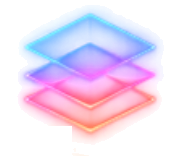
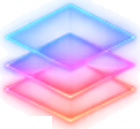
One Badge component, a brighter Writing hero and a clearer portfolio path
Every label, tag, chat chip and filter pill is now the shared Badge
(flat hairline, white pill when pressed, a white shine across the border
on hover). The work page drops the Disney card, shows the remaining
portfolio pieces with a PreAI badge and ends with a prominent portfolio
call-to-action. The Writing hero uses the retro-computer artwork, lifted
and no longer faded over the keyboard. The nav logo mark is trimmed and
sized to the text beside it. DESIGN.md and CLAUDE.md describe the Badge.

diff --git a/src/styles/neon.css b/src/styles/neon.css
@@ -5,14 +5,14 @@
    the border flashes white: a second pseudo-element masked down to the 1px ring. The live voice button keeps its
    own ::after for the listening ring, so it is left out. The lists use :where() so they add no specificity and each
    button's own rules (its shine strength, the cards' glint layer) win. */
-:where(.btn:not(.btn-text), .home-verso-button, #chat-dock .input-row button, #chat-dock .dock-close, .project-card, .career-panel, .work-card, .about-explore a) {
+:where(.btn:not(.btn-text), .home-verso-button, #chat-dock .input-row button, #chat-dock .dock-close, .project-card, .career-panel, .work-card, .about-explore a, .work-footer) {
   --neon-shine: .22;
   --neon-edge: conic-gradient(from var(--edge-spin), rgb(46 230 255 / .6), rgb(166 77 255 / .6), rgb(255 47 208 / .6), rgb(255 210 61 / .6), rgb(46 230 255 / .6));
   position: relative;
   isolation: isolate;
   animation: edge-spin 12s linear infinite;
 }
-:where(.btn:not(.btn-text), .home-verso-button, #chat-dock .input-row button, #chat-dock .dock-close, .project-card, .career-panel, .work-card, .about-explore a)::before {
+:where(.btn:not(.btn-text), .home-verso-button, #chat-dock .input-row button, #chat-dock .dock-close, .project-card, .career-panel, .work-card, .about-explore a, .work-footer)::before {
   content: "";
   position: absolute;
   inset: 0;
@@ -21,11 +21,11 @@
   background: linear-gradient(105deg, transparent 40%, rgb(255 255 255 / var(--neon-shine)) 50%, rgb(255 255 255 / calc(var(--neon-shine) / 4)) 55%, transparent 62%) 130% 0 / 250% 100% no-repeat;
   pointer-events: none;
 }
-:where(.btn:not(.btn-text), .home-verso-button, #chat-dock .input-row button, #chat-dock .dock-close, .project-card, .career-panel, .work-card, .about-explore a):hover::before {
+:where(.btn:not(.btn-text), .home-verso-button, #chat-dock .input-row button, #chat-dock .dock-close, .project-card, .career-panel, .work-card, .about-explore a, .work-footer):hover::before {
   background-position: -30% 0;
   transition: background-position .6s cubic-bezier(.3, 0, .2, 1);
 }
-:where(.btn:not(.btn-text), .home-verso-button, #chat-dock .input-row button, #chat-dock .dock-close, .project-card, .career-panel, .work-card, .about-explore a):not(#dock-voice[data-state="live"])::after {
+:where(.btn:not(.btn-text), .home-verso-button, #chat-dock .input-row button, #chat-dock .dock-close, .project-card, .career-panel, .work-card, .about-explore a, .work-footer):not(#dock-voice[data-state="live"])::after {
   content: "";
   position: absolute;
   inset: -1px;
@@ -37,14 +37,14 @@
   opacity: 0;
   pointer-events: none;
 }
-:where(.btn:not(.btn-text), .home-verso-button, #chat-dock .input-row button, #chat-dock .dock-close, .project-card, .career-panel, .work-card, .about-explore a):not(#dock-voice[data-state="live"]):hover::after {
+:where(.btn:not(.btn-text), .home-verso-button, #chat-dock .input-row button, #chat-dock .dock-close, .project-card, .career-panel, .work-card, .about-explore a, .work-footer):not(#dock-voice[data-state="live"]):hover::after {
   animation: neon-edge-flash .75s ease-out both;
 }
 @keyframes neon-edge-flash { 0%, 10% { opacity: 0; background-position: 100% 0; } 24%, 38% { opacity: 1; } 100% { opacity: 0; background-position: 0 0; } }
 /* The glint is pitched to the face it crosses: soft on the dark buttons, stronger on the lit pink one. The cards'
    faces are covered by their preview and copy, so their glint passes over the content instead of behind it. */
-.btn-primary, .btn[aria-pressed='true'] { --neon-shine: .6; }
-.project-card, .career-panel, .work-card, .about-explore a { --neon-shine: .16; }
+.btn-primary { --neon-shine: .6; }
+.project-card, .career-panel, .work-card, .about-explore a, .work-footer { --neon-shine: .16; }
 .project-card::before, .work-card::before { z-index: 1; }
 /* The work grid is an .enter-list, whose rise-in animation would replace the edge's spin, so the cards run both. */
 .enter-list > .work-card {

diff --git a/src/styles/badge.css b/src/styles/badge.css
@@ -1,0 +1,57 @@
+/* Badges. Rendered by components/Badge.astro; this is the only place a pill's look is defined. A dark pill with a
+   thin flat hairline. Controls brighten the hairline on hover, and a pressed toggle (or `strong`) turns into a solid
+   white pill. No gradient, no spinning edge and no halo: these are labels, not actions. */
+.pill {
+  display: inline-flex;
+  align-items: center;
+  gap: 6px;
+  padding: 8px 16px;
+  border: 1px solid var(--ui-pill-line);
+  border-radius: 99px;
+  background: var(--ui-bg);
+  color: var(--ui-ink);
+  font-family: var(--sans);
+  font-size: 12px;
+  font-weight: 500;
+  line-height: 1.4;
+  white-space: nowrap;
+  text-decoration: none;
+  appearance: none;
+  box-shadow: none;
+  transition: background .18s, color .18s, border-color .18s, box-shadow .18s;
+}
+.pill-sm { padding: 3px 10px; font-size: 11px; }
+button.pill, a.pill { cursor: pointer; }
+button.pill:hover, a.pill:hover { border-color: var(--ui-pill-line-hover); }
+.pill[aria-pressed='true'], .pill-strong {
+  border-color: #f4f7fb;
+  background: #f4f7fb;
+  color: #06111a;
+  font-weight: 650;
+  box-shadow: 0 0 10px rgb(255 255 255 / .22);
+}
+/* On hover a white gradient shine crosses the hairline: a ring-shaped overlay (the padding box masked away) whose
+   bright band slides left to right. A solid white pill has nothing to shine on, so it is left out. */
+.pill { position: relative; }
+.pill::after {
+  content: "";
+  position: absolute;
+  inset: -1px;
+  padding: 1px;
+  border-radius: inherit;
+  background: linear-gradient(100deg, transparent 30%, rgb(255 255 255 / .95) 50%, transparent 70%) 100% 0 / 250% 100% no-repeat;
+  mask: linear-gradient(#000 0 0) content-box, linear-gradient(#000 0 0);
+  mask-composite: exclude;
+  opacity: 0;
+  pointer-events: none;
+}
+.pill:hover::after { animation: pill-shine .7s ease-out both; }
+.pill[aria-pressed='true']::after, .pill-strong::after { display: none; }
+@keyframes pill-shine {
+  0% { opacity: 1; background-position: 100% 0; }
+  80% { opacity: 1; }
+  100% { opacity: 0; background-position: 0 0; }
+}
+@media (max-width: 720px) {
+  .pill:not(.pill-sm) { padding: 7px 12px; font-size: 11px; }
+}

diff --git a/src/styles/home.css b/src/styles/home.css
@@ -123,7 +123,6 @@ html[data-soft-nav] .hero-copy { animation: enter-fade 320ms var(--ease-out) bot
 .project-description { display: flex; align-items: center; gap: 14px; }
 .project-description p { color: var(--home-muted); font-size: 12px; line-height: 1.55; margin: 0; min-height: 38px; flex: 1; text-wrap: pretty; }
 .project-tags { display: flex; flex-wrap: wrap; gap: 7px; padding: 0; margin: 10px 0 0; list-style: none; }
-.project-tags li { padding: 5px 9px; background: var(--home-raised); color: var(--home-muted); border-radius: 7px; font-size: 10px; line-height: 1.5; }
 .capabilities-section { padding: 0 0 22px; }
 .capabilities-section .home-container { padding-bottom: 22px; border-bottom: 1px solid var(--home-rule); }
 .capability-grid { display: grid; grid-template-columns: repeat(4, minmax(0, 1fr)); }
@@ -171,8 +170,7 @@ html[data-soft-nav] .hero-copy { animation: enter-fade 320ms var(--ease-out) bot
   .project-info { padding-inline: 12px; }
   .project-info h3 { font-size: 13px; }
   .project-tags { gap: 5px; }
-  .project-tags li { font-size: 9px; padding-inline: 7px; }
-}
+  }
 @media (max-width: 1000px) {
   .hero-copy { max-width: 520px; }
   .hero-eyebrow { font-size: 8px; }
@@ -228,8 +226,7 @@ html[data-soft-nav] .hero-copy { animation: enter-fade 320ms var(--ease-out) bot
   .project-description p { font-size: 13px; min-height: 0; }
   .project-description .circle-arrow { display: inline-flex; }
   .project-tags { gap: 7px; margin-top: 12px; }
-  .project-tags li { font-size: 10px; padding: 6px 9px; }
-  .featured-work { padding-bottom: 30px; }
+    .featured-work { padding-bottom: 30px; }
   .capabilities-section { padding-block: 20px 25px; }
   .capability-grid { grid-template-columns: repeat(2, minmax(0, 1fr)); gap: 20px 16px; }
   .capability, .capability:nth-child(3) { padding: 0; border-left: 0; gap: 12px; }

diff --git a/src/styles/buttons.css b/src/styles/buttons.css
@@ -35,8 +35,7 @@
 /* The fill is twice the button's width: at rest you see the plum-to-coral first half, and on hover it slides toward
    orange and the label splits slightly into cyan and yellow, like a VHS frame. The edge is a warm neon tube, so the
    spinning gradient is pink through coral and gold instead of the cool default. */
-.btn-primary,
-.btn[aria-pressed='true'] {
+.btn-primary {
   --neon-edge: conic-gradient(from var(--edge-spin), #ff7ad9, #ff9a86, #ffc27a, #ff9a86, #ff7ad9);
   --btn-fill: linear-gradient(90deg, #6f2a8c 0%, #ac2e82 25%, #e0584f 50%, #f08a4b 78%, #ffb347 100%);
   border-width: 1.5px !important;
@@ -45,8 +44,7 @@
   color: #fff;
   transition: background-position .5s cubic-bezier(.2, .8, .2, 1), box-shadow .3s, text-shadow .3s, transform .18s;
 }
-.btn-primary:hover,
-.btn[aria-pressed='true']:hover {
+.btn-primary:hover {
   background: var(--btn-fill) padding-box 55% 0 / 200% 100%, var(--neon-edge) border-box;
   color: #fff;
   box-shadow: 0 0 0 1px rgb(255 200 220 / .5), 0 0 14px rgb(255 80 150 / .7), 0 0 30px rgb(255 120 80 / .4), inset 0 0 12px rgb(255 170 200 / .38);
@@ -73,12 +71,3 @@
 .btn-text:active { transform: none; }
 
 .btn .icon { width: 16px; height: 16px; }
-
-/* Pills (filters and toggles) are badge-sized, so they keep the spinning edge but carry no halo of their own. A
-   pressed pill still takes the primary colors. */
-.btn.btn-pill { min-height: 38px; padding: 8px 16px; border-radius: 99px; font-size: 12px; }
-.btn.btn-pill,
-.btn.btn-pill:hover,
-.btn.btn-pill[aria-pressed='true'],
-.btn.btn-pill[aria-pressed='true']:hover { box-shadow: none; }
-.btn.btn-pill::after { display: none; }

diff --git a/src/styles/studio.css b/src/styles/studio.css
@@ -25,7 +25,6 @@
 .studio-page .home-nav a, .studio-page .home-nav button { color: var(--studio-ink); }
 .studio-eyebrow { font-family: var(--sans); text-transform: uppercase; font-size: 11px; line-height: 1.5; letter-spacing: .2em; font-weight: 600; margin: 0 0 18px; color: var(--studio-muted); }
 .studio-tags { list-style: none; display: flex; flex-wrap: wrap; gap: 7px; padding: 0; margin: 16px 0 0; }
-.studio-tags li, .studio-tags > span { font-size: 11px; line-height: 1.5; padding: 5px 10px; border: 1px solid var(--studio-rule); background: var(--studio-raised); color: var(--studio-muted); border-radius: 7px; }
 .studio-arrow { display: inline-flex; align-items: center; justify-content: center; width: 34px; height: 34px; flex-shrink: 0; border-radius: 50%; background: var(--studio-ink); color: var(--studio-bg); }
 .studio-arrow .icon { width: 18px; height: 18px; }
 .studio-page .foot { max-width: var(--site-width); width: calc(100% - 2 * var(--site-gutter)); margin: 0 auto; padding: 26px 0 34px; gap: 20px; color: var(--studio-muted); }

diff --git a/src/styles/chat-mobile.css b/src/styles/chat-mobile.css
@@ -88,8 +88,6 @@ body[data-chat-enabled]:not(.verso-page) #chat-dock .dock-wave svg { width: 22px
 body[data-chat-enabled]:not(.verso-page) #chat-dock .dock-who-name { font: 600 14px/1 var(--sans); }
 body[data-chat-enabled]:not(.verso-page) #chat-dock .dock-who-dot { width: 8px; height: 8px; border-radius: 50%; background: var(--home-green, #31da67); }
 #chat-dock .dock-quick { display: flex; flex-wrap: wrap; gap: 7px; margin: -4px 0 16px; }
-#chat-dock .dock-quick button { min-height: 32px; padding: 6px 12px; border: 1px solid var(--rule); border-radius: 99px; background: color-mix(in srgb, var(--paper) 70%, #000); color: var(--ink-soft); font: 500 12px/1.3 var(--sans); cursor: pointer; transition: border-color 160ms var(--ease-out), color 160ms var(--ease-out); }
-#chat-dock .dock-quick button:hover { border-color: var(--accent); color: var(--ink); }
 
 /* Voice. The mic reads as off until a session is live; connecting breathes so a
    slow token or permission prompt never looks like a dead button. */

diff --git a/src/styles/global.css b/src/styles/global.css
@@ -504,16 +504,6 @@
     color: var(--ink-faint); font-weight: 500;
     margin-bottom: 10px;
   }
-  .note .state {
-    display: inline-flex; align-items: center; gap: 5px;
-    padding: 3px 9px;
-    border: 1px solid var(--rule);
-    border-radius: 99px;
-    font-size: 10px;
-    color: var(--ink-soft);
-    font-weight: 500;
-  }
-  .note .state.evergreen { color: var(--accent); border-color: var(--accent); background: var(--accent-soft); }
   .note p {
     margin: 0;
     font-size: var(--t-ui-lg);

diff --git a/src/styles/tokens.css b/src/styles/tokens.css
@@ -19,6 +19,10 @@
 
   --ui-radius: 10px;
 
+  /* Badge hairline: one flat color, brighter on hover. */
+  --ui-pill-line: rgb(88 150 190 / .5);
+  --ui-pill-line-hover: rgb(70 205 240 / .95);
+
   --home-bg: var(--ui-bg);
   --home-surface: var(--ui-surface);
   --home-raised: var(--ui-raised);

diff --git a/DESIGN.md b/DESIGN.md
@@ -208,6 +208,15 @@ Props: `href` (omit for a real `<button>`), `variant`, `icon` (a trailing icon f
 Every non-text button, the chat bar's buttons and the case-study cards also get the hover glint and a white flash on the right edge as it leaves.
 The glint is stronger on the pink face and softer on dark faces.
 
+### Badges
+
+Always `<Badge>`; never a hand-written span, list item or button styled as a pill.
+It covers labels (PreAI, Featured, Case study), tags, chat prompt chips and filter pills.
+Props: `size` (`sm` for labels and tags, `md` for filters and chips), `as="button"` for a control, `href` for a link, and `strong` for a solid white pill.
+The look lives in `src/styles/badge.css`: a dark pill with a thin cool-to-magenta hairline that brightens on hover.
+A pressed toggle (`aria-pressed="true"`) becomes a solid white pill.
+There is no spinning edge and no halo, because badges are not actions.
+
 ### Library shelf overlay (`/library`)
 
 The shelf is its own surface: a full-bleed document with no masthead or footer, pinned to the light palette because the birch and plaster are baked into the textures. Only three pieces of flat UI sit over the scene, and all three are pills so they read as labels resting on the room rather than a layer laid across it.

diff --git a/CLAUDE.md b/CLAUDE.md
@@ -140,6 +140,7 @@ The light theme is gone; `/library` is the one document that stays on its own li
 
 - `src/styles/tokens.css` holds the palette once (`--ui-*`). The older `--home-*` and `--studio-*` names are aliases, kept because many rules use them.
 - `src/components/Button.astro` is the only button, with `primary`, `secondary` and `text` variants. Its look is `src/styles/buttons.css`. Never hand-write a button class in a page.
+- `src/components/Badge.astro` is the only badge, label, tag, chip or filter pill. Its look is `src/styles/badge.css`. Never hand-write a pill in a page.
 - `src/styles/neon.css` adds the spinning conic edge, the hover glint and the white edge flash to buttons, the chat bar and the case-study cards.
 - `DESIGN.md` is the written system and is current for the colors, type and buttons. Read it before any UI change.
 
